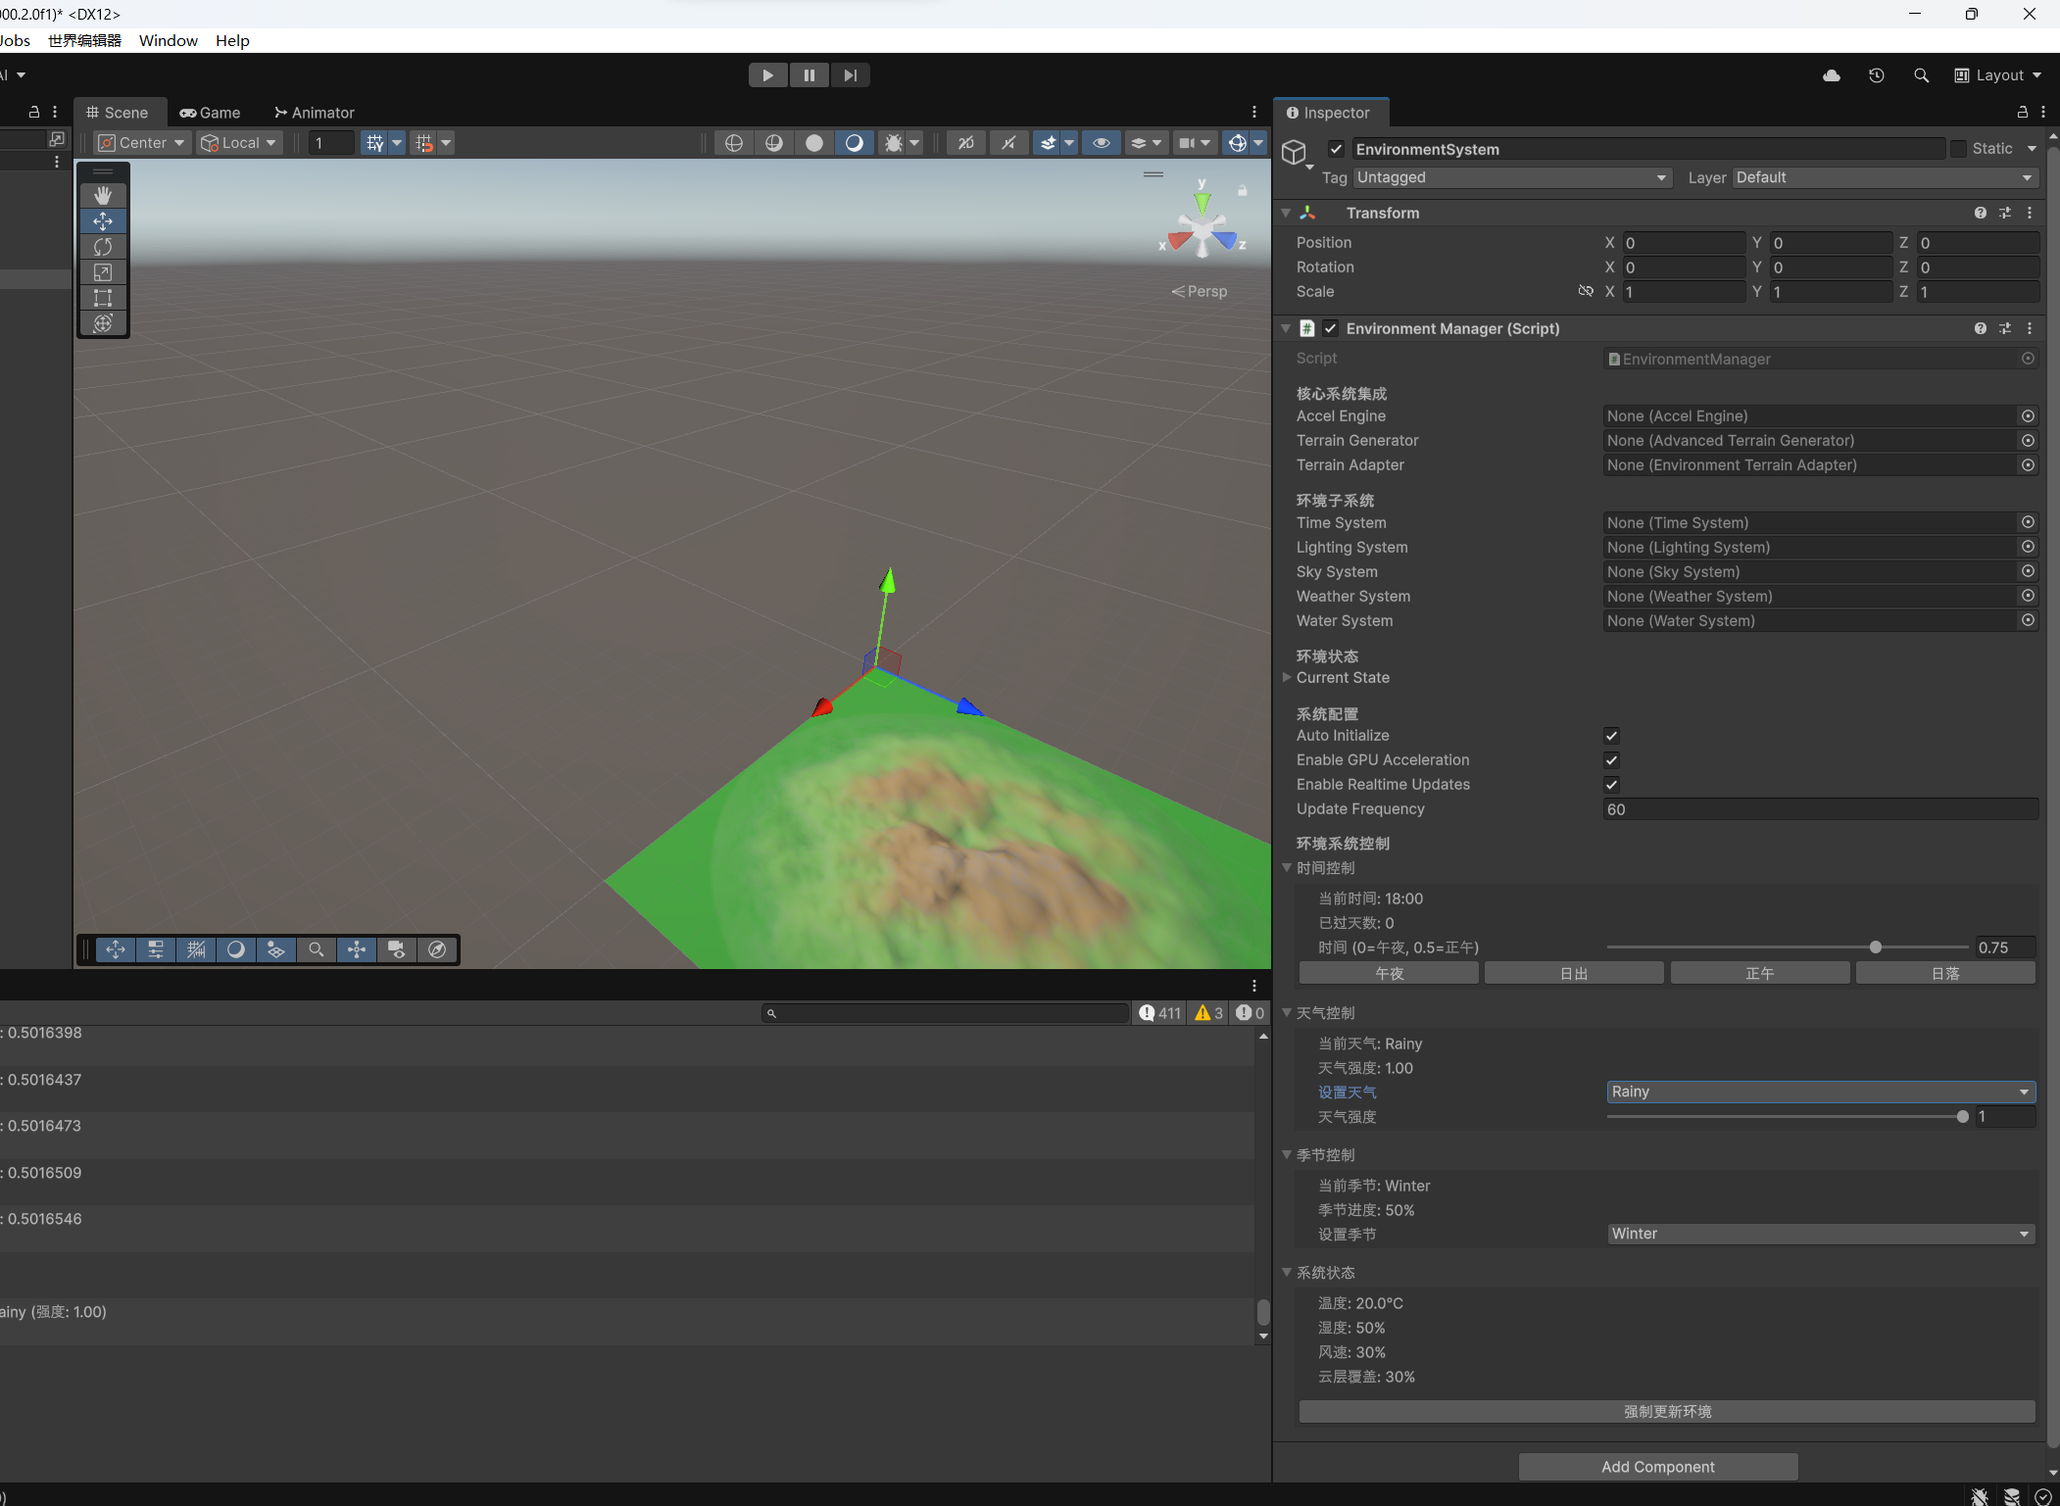
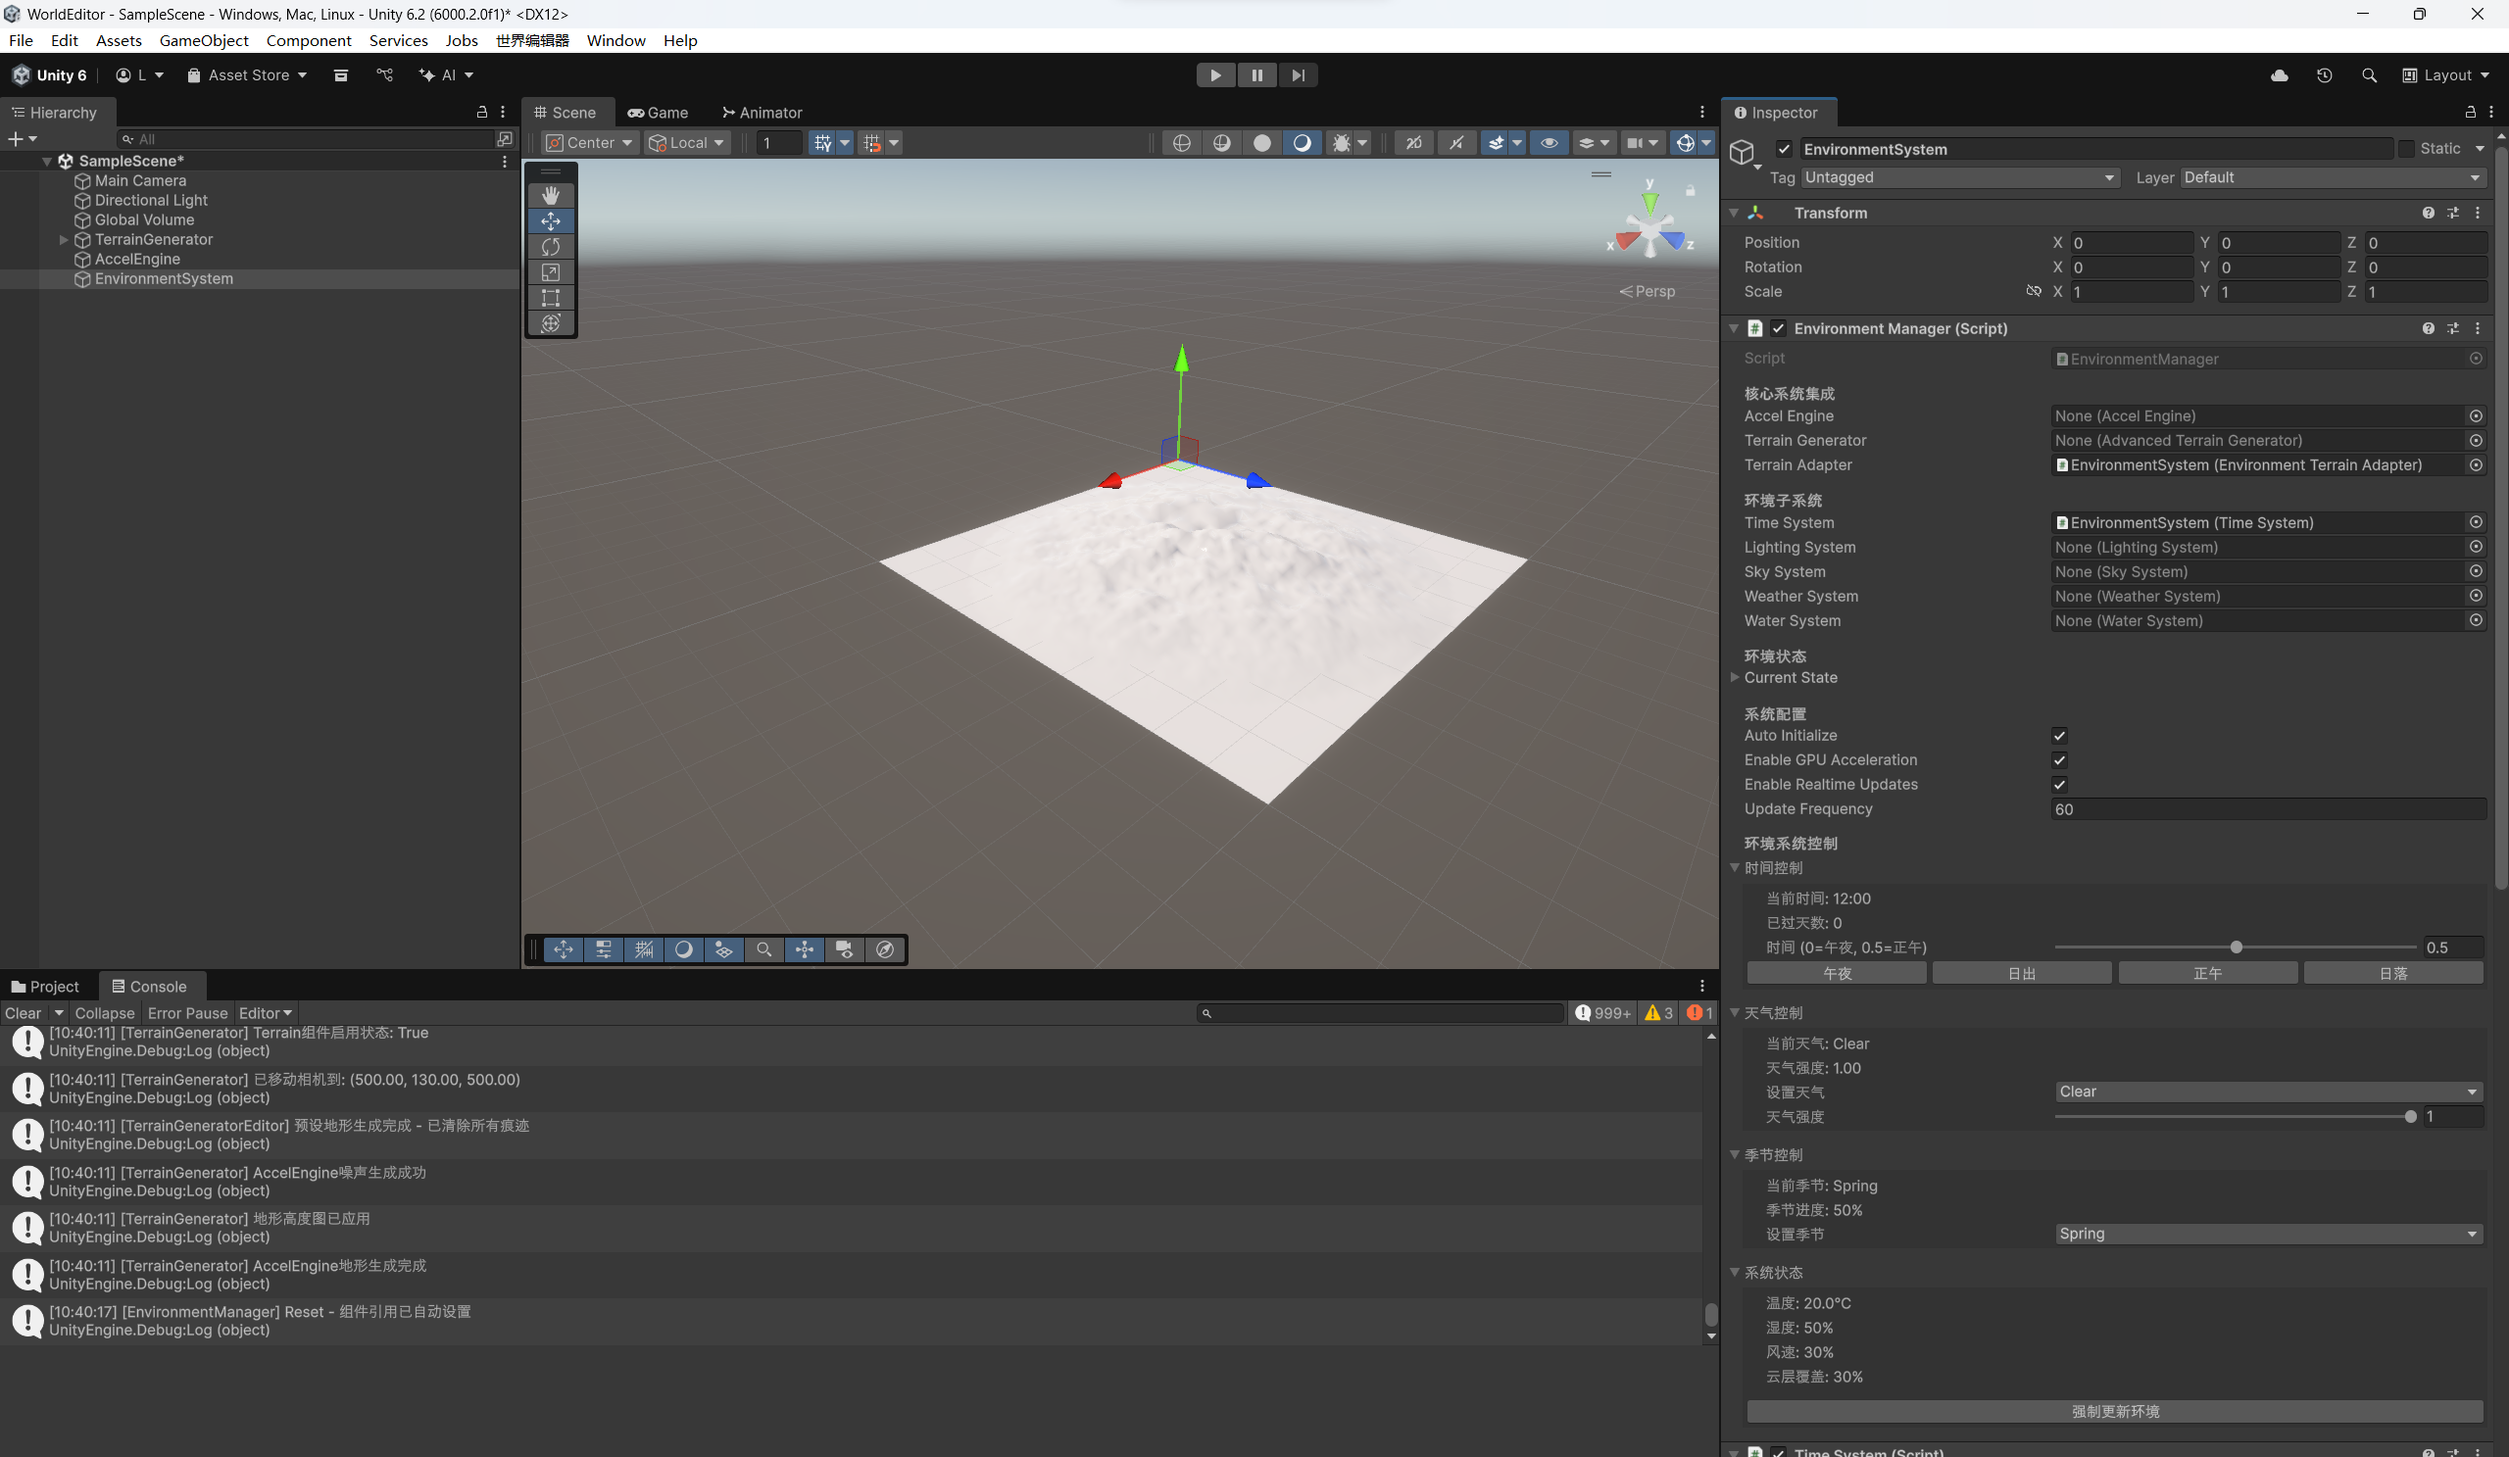
feat: 实现TimeSystem光照控制 - 真正的昼夜循环效果
核心功能:
- 自动查找和控制场景中的Directional Light
- 太阳光角度随时间变化 (日出日落效果)
- 光照颜色随时间变化 (早晨橙色，正午白色，傍晚红色，夜晚蓝色)
- 季节影响光照色调和强度
- 完整的昼夜循环视觉效果

现在用户可以看到真正的环境变化：
- 太阳光会随时间移动
- 光照颜色会动态变化
- 不同季节有不同的光照特征

🤖 Generated with [Claude Code](https://claude.ai/code)

diff --git a/Assets/WorldEditor/Environment/Core/Scripts/TimeSystem.cs b/Assets/WorldEditor/Environment/Core/Scripts/TimeSystem.cs
@@ -62,6 +62,17 @@ namespace WorldEditor.Environment
 
         #endregion
 
+        #region 光照控制
+
+        [Header("光照控制")]
+        [Tooltip("太阳光源 (Directional Light)")]
+        public Light sunLight;
+        
+        [Tooltip("是否自动控制太阳光")]
+        public bool controlSunLight = true;
+
+        #endregion
+
         #region 运行时状态
 
         private bool isInitialized = false;
@@ -145,6 +156,9 @@ namespace WorldEditor.Environment
 
             // 同步到环境状态
             SyncToEnvironmentState();
+
+            // 查找并设置太阳光
+            SetupSunLight();
 
             // 启动时间更新
             isActive = true;
@@ -347,6 +361,103 @@ namespace WorldEditor.Environment
             
             // 同步到环境状态
             SyncToEnvironmentState();
+            
+            // 更新太阳光
+            UpdateSunLight();
+        }
+
+        /// <summary>
+        /// 设置太阳光引用
+        /// </summary>
+        private void SetupSunLight()
+        {
+            if (sunLight == null)
+            {
+                // 自动查找场景中的Directional Light
+                Light[] lights = FindObjectsByType<Light>(FindObjectsSortMode.None);
+                foreach (Light light in lights)
+                {
+                    if (light.type == LightType.Directional)
+                    {
+                        sunLight = light;
+                        Debug.Log($"[TimeSystem] 自动找到太阳光: {sunLight.name}");
+                        break;
+                    }
+                }
+            }
+            
+            if (sunLight == null)
+            {
+                Debug.LogWarning("[TimeSystem] 未找到Directional Light，无法控制太阳光");
+                controlSunLight = false;
+            }
+        }
+
+        /// <summary>
+        /// 更新太阳光照
+        /// </summary>
+        private void UpdateSunLight()
+        {
+            if (!controlSunLight || sunLight == null) return;
+
+            // 计算太阳角度 (-90度到90度，0度为正午)
+            float sunAngle = GetSunAngle();
+            
+            // 设置太阳光方向
+            Vector3 sunDirection = Quaternion.Euler(sunAngle, 0, 0) * Vector3.forward;
+            sunLight.transform.rotation = Quaternion.LookRotation(sunDirection);
+            
+            // 设置太阳光颜色和强度
+            UpdateSunLightColor();
+        }
+
+        /// <summary>
+        /// 更新太阳光颜色和强度
+        /// </summary>
+        private void UpdateSunLightColor()
+        {
+            if (sunLight == null) return;
+
+            Color sunColor = Color.white;
+            float intensity = 1f;
+            
+            // 根据时间调整颜色
+            if (currentTime < 0.25f || currentTime > 0.75f) // 夜晚
+            {
+                intensity = 0.1f;
+                sunColor = new Color(0.5f, 0.5f, 0.8f); // 月光色
+            }
+            else if (currentTime < 0.35f || currentTime > 0.65f) // 日出日落
+            {
+                intensity = 0.6f;
+                sunColor = new Color(1f, 0.7f, 0.4f); // 橙红色
+            }
+            else // 白天
+            {
+                intensity = 1f;
+                sunColor = new Color(1f, 0.95f, 0.8f); // 温暖白色
+            }
+            
+            // 根据季节微调
+            switch (currentSeason)
+            {
+                case SeasonType.Spring:
+                    sunColor = Color.Lerp(sunColor, new Color(1f, 1f, 0.9f), 0.2f);
+                    break;
+                case SeasonType.Summer:
+                    intensity *= 1.1f;
+                    break;
+                case SeasonType.Autumn:
+                    sunColor = Color.Lerp(sunColor, new Color(1f, 0.8f, 0.6f), 0.3f);
+                    break;
+                case SeasonType.Winter:
+                    intensity *= 0.8f;
+                    sunColor = Color.Lerp(sunColor, new Color(0.9f, 0.9f, 1f), 0.2f);
+                    break;
+            }
+            
+            sunLight.color = sunColor;
+            sunLight.intensity = intensity;
         }
 
         /// <summary>
